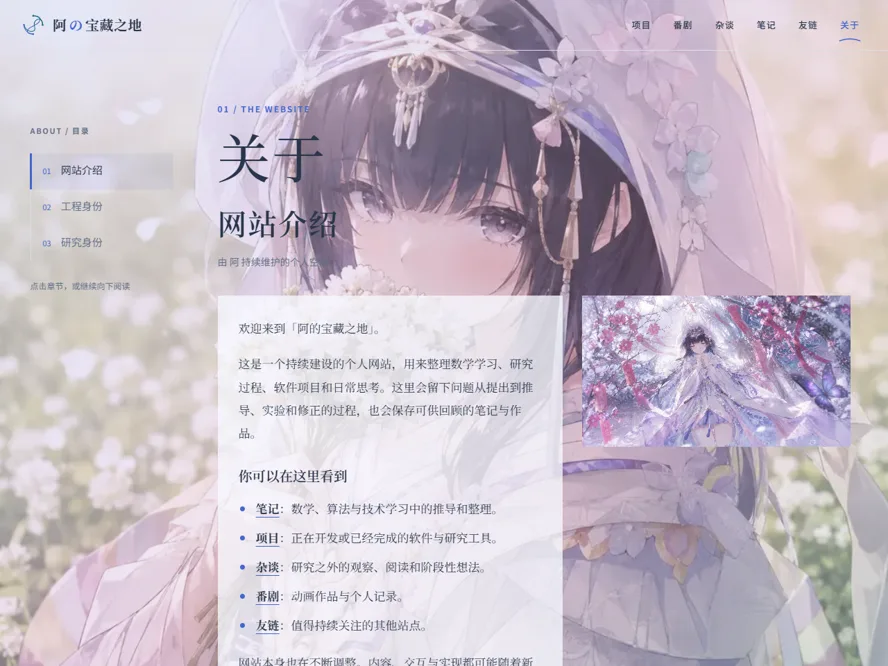
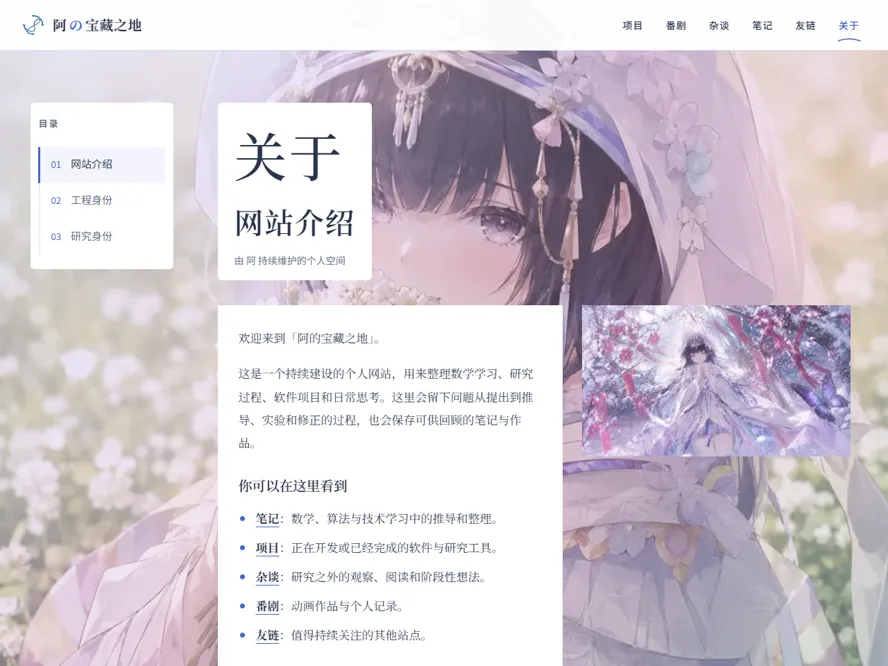
更新桌面导航字号与真实页面预览并按内容刷新图片缓存

diff --git a/components/HomeScene.tsx b/components/HomeScene.tsx
@@ -21,21 +21,37 @@ import { ToastProvider } from "./ToastProvider"
 import HomeSpectralCanvas from "./HomeSpectralCanvas"
 import type { PaperReport } from "../lib/papers"
 import styles from "./HomeScene.module.css"
+import projectsPreview from "../public/page-previews/projects.webp"
+import animePreview from "../public/page-previews/anime.webp"
+import chatterPreview from "../public/page-previews/chatter.webp"
+import blogPreview from "../public/page-previews/blog.webp"
+import friendsPreview from "../public/page-previews/friends.webp"
+import aboutPreview from "../public/page-previews/about.webp"
 
 const navigationIcons = [Folder, Clapperboard, MessageCircle, NotebookPen, Link2, UserRound]
+// Static imports give regenerated screenshots content-based URLs instead of stale image caches.
+const pagePreviews = [
+  projectsPreview,
+  animePreview,
+  chatterPreview,
+  blogPreview,
+  friendsPreview,
+  aboutPreview,
+]
 const pageEntries = navigationLinks.map((link, index) => ({
   ...link,
   id: link.href.slice(1),
   icon: navigationIcons[index],
+  preview: pagePreviews[index],
 }))
 const rails = [
   { side: "left", entries: pageEntries.slice(0, 4) },
   {
     side: "right",
     entries: [
-      { id: "papers", name: "论文", href: null, icon: BookOpen },
+      { id: "papers", name: "论文", href: null, icon: BookOpen, preview: null },
       ...pageEntries.slice(4),
-      { id: "contact", name: "联系", href: null, icon: Mail },
+      { id: "contact", name: "联系", href: null, icon: Mail, preview: null },
     ],
   },
 ]
@@ -121,7 +137,7 @@ export default function HomeScene({
             aria-label={`首页${side === "left" ? "左" : "右"}侧导航`}
             data-home-rail={side}
           >
-            {entries.map(({ id, name, href, icon: Icon }) => {
+            {entries.map(({ id, name, href, icon: Icon, preview }) => {
               const expanded = open === id
               return (
                 <aside
@@ -201,19 +217,14 @@ export default function HomeScene({
                         keyboardSide.current = id
                     }}
                   >
-                    {href ? (
+                    {href && preview ? (
                       <Link
                         href={href === "/blog" ? blogHref : href}
                         prefetch={false}
                         className={styles.previewLink}
                         aria-label={`进入${name}`}
                       >
-                        {expanded && (
-                          <SidebarPreview
-                            src={`/page-previews/${id}.webp`}
-                            alt={`${name}页面预览`}
-                          />
-                        )}
+                        {expanded && <SidebarPreview src={preview} alt={`${name}页面预览`} />}
                       </Link>
                     ) : id === "papers" ? (
                       <PaperMonitor

diff --git a/next.config.ts b/next.config.ts
@@ -33,6 +33,7 @@ const nextConfig: NextConfig = {
     deviceSizes: [640, 828, 1200, 1440, 1920],
     imageSizes: [64, 128, 256, 384],
     localPatterns: [
+      { pathname: "/_next/static/media/**", search: "" },
       { pathname: "/avatar", search: "" },
       { pathname: "/avatar.jpg", search: "" },
       { pathname: "/about-cover.png", search: "" },

diff --git a/components/Navbar.module.css b/components/Navbar.module.css
@@ -79,7 +79,7 @@
   justify-content: center;
   min-width: 44px;
   padding-inline: 9px;
-  font-size: 13px;
+  font-size: 14px;
   font-weight: 500;
   letter-spacing: 0.08em;
   white-space: nowrap;

diff --git a/components/HomeScene.module.css b/components/HomeScene.module.css
@@ -182,3 +182,8 @@
 .scene :global(dialog) {
   color-scheme: dark;
 }
+@media (min-width: 768px) {
+  .tab {
+    font-size: 14px;
+  }
+}

diff --git a/scripts/home-scene-preview.py b/scripts/home-scene-preview.py
@@ -1,8 +1,9 @@
 """Unified homepage acceptance. Evidence goes to --output (ignored by Git by default).
 
 The default navigation mode checks the current sidebars and bottom music dock.
-The snapshots mode updates public/page-previews/ from real pages; it may read
-the production anime page when the local data service is unavailable.
+The snapshots mode updates public/page-previews/ from local pages. It may read
+the public production anime data when local data is unavailable, while keeping
+the current local renderer and styles. Synthetic fixtures are never published.
 
 Requires Python Playwright and Pillow. The music fixture is local test audio;
 it validates the real MusicProvider, not availability of an external music API.
@@ -15,6 +16,7 @@ from pathlib import Path
 import struct
 import time
 import wave
+from urllib.parse import urljoin, urlparse, parse_qs
 from playwright.sync_api import sync_playwright, expect
 
 parser = argparse.ArgumentParser(description=__doc__)
@@ -89,11 +91,31 @@ with sync_playwright() as p:
             except Exception:
                 pass  # A slow external image must not prevent the local page capture.
             if route == 'anime' and page.get_by_role('heading', name='番剧数据暂时不可用').count():
-                response = page.goto('https://nothing-new.cn/anime', wait_until='domcontentloaded', timeout=120000)
-                assert response and response.ok
-                page.wait_for_function("document.documentElement.classList.contains('splash-seen')")
-                page.wait_for_function("document.querySelector('main img, [data-anime-card] img, img[alt*=CLANNAD]') !== null", timeout=30000)
-                assert page.get_by_role('heading', name='番剧数据暂时不可用').count() == 0
+                # Read real public data, never an old production screenshot or a test fixture.
+                latest = context.request.get('https://nothing-new.cn/anime/latest.json')
+                assert latest.ok, 'Public anime pointer unavailable; do not publish a fixture preview'
+                pointer = latest.json()
+                snapshot_response = context.request.get(urljoin('https://nothing-new.cn', pointer['snapshot']))
+                assert snapshot_response.ok, 'Public anime snapshot unavailable'
+                snapshot = snapshot_response.json()
+                assert snapshot.get('version') == 1 and snapshot.get('items'), 'Invalid public anime snapshot'
+                context.route('**/anime/latest.json', lambda r: r.fulfill(json={
+                    **pointer, 'snapshot': '/__preview-real-anime.json'}))
+                context.route('**/__preview-real-anime.json', lambda r: r.fulfill(json=snapshot))
+
+                def public_anime_cover(r):
+                    parsed = urlparse(r.request.url)
+                    source = parse_qs(parsed.query).get('url', [''])[0]
+                    if not source.startswith('/anime/blob/covers/'):
+                        r.continue_()
+                        return
+                    cover = context.request.get('https://nothing-new.cn' + parsed.path + '?' + parsed.query)
+                    r.fulfill(response=cover)
+
+                context.route('**/_next/image?*', public_anime_cover)
+                page.reload(wait_until='domcontentloaded', timeout=120000)
+                page.get_by_role('heading', name='番剧', exact=True).wait_for(timeout=30000)
+                check('anime: public real data with local renderer', {'source': pointer['snapshot'], 'count': len(snapshot['items'])})
             try:
                 page.wait_for_function("""() => [...document.images].filter(img => {
                     const b = img.getBoundingClientRect();
@@ -127,7 +149,7 @@ with sync_playwright() as p:
             assert left.all_text_contents() == ['项目', '番剧', '杂谈', '笔记']
             assert right.all_text_contents() == ['论文', '友链', '关于', '联系']
             assert page.locator('[data-edge-trigger=music]').count() == 0
-            assert page.locator('img[src*="page-previews"]').count() == 0
+            assert page.locator('[data-home-preview]:not(#home-papers-panel):not(#home-contact-panel) img').count() == 0
             assert page.locator('audio').count() == 1
             assert page.locator('[data-home-canvas]').count() == 1
             assert page.evaluate('document.documentElement.scrollWidth <= innerWidth')

diff --git a/docs/project/home-scene.md b/docs/project/home-scene.md
@@ -4,9 +4,11 @@
 
 首页取消顶栏与音乐侧栏，左侧依次为「项目、番剧、杂谈、笔记」，右侧依次为「论文、友链、关于、联系」，各四个入口。八个入口共用原论文侧栏的交互：鼠标停留 350ms 展开，离开按钮与内容联合区域 120ms 收起；点击固定，外部点击或 Escape 关闭，键盘聚焦展开，Escape 归还触发按钮焦点。同时只展开一个入口，透明空白不捕获指针。
 
-六个页面入口与论文封面复用 `PaperMonitor.tsx` 的 `SidebarPreview`，展开时才加载 `public/page-previews/` 内的真实页面静态截图，点击后通过 Next Link 进入对应页面。笔记仍使用服务端解析的实际文章入口。截图只作页面预览，内容更新后按下方命令重新生成，不嵌入后台页面或额外场景；本地番剧服务不可用时，截图脚本从正式站的同一路径取景。论文保留原封面及两层阅读窗口，原生 dialog 不放进 inert/aria-hidden 容器；联系复用现有 `ProfileActions`。
+六个页面入口与论文封面复用 `PaperMonitor.tsx` 的 `SidebarPreview`，展开时才加载 `public/page-previews/` 内的真实页面静态截图，点击后通过 Next Link 进入对应页面。笔记仍使用服务端解析的实际文章入口。截图只作页面预览，内容更新后按下方命令重新生成，不嵌入后台页面或额外场景；本地番剧服务不可用时，读取正式站公开真实快照，仍用当前本地页面渲染，不从旧版线上页面取景，也不使用合成夹具生成公开预览。论文保留原封面及两层阅读窗口，原生 dialog 不放进 inert/aria-hidden 容器；联系复用现有 `ProfileActions`。
 
 音乐播放、暂停、切歌、进度与曲目信息常驻下方，歌词位于控件上方。`CloudPlayer dock` 只改变布局，继续使用根 MusicProvider/audio；桌面首页挂载可见控件后初始化歌单，不自动播放。内页、移动设备分流、原画和谱场运行逻辑保持现有行为。
+
+导航截图通过 Next.js 静态导入生成带内容哈希的图片 URL，更新截图后需重新构建，避免长期图片缓存继续展示旧文案或旧配色。静态导入只把图片元信息放进模块，仍在入口展开时才请求图片；`next.config.ts` 仅增加对应静态媒体路径白名单。
 
 ```powershell
 # 本地 Next 预览运行后（需要 Python Playwright、Pillow 和 Chrome）：

diff --git a/scripts/README.md b/scripts/README.md
@@ -4,7 +4,7 @@
 
 ## 目录说明
 
-- `home-scene-preview.py`：首页总装、边缘交互、谱场与移动分流验证；当前双侧导航与底部音乐使用 `--mode navigation` 验收，`--mode preview` 截取真实首页。`--mode snapshots` 会更新 `public/page-previews/` 六张页面截图，本地番剧服务不可用时从正式站取景；其他证据默认写入忽略目录 `.sync/tmp-home-scene-evidence/`。详见[首页总装](../docs/project/home-scene.md)。
+- `home-scene-preview.py`：首页总装、边缘交互、谱场与移动分流验证；当前双侧导航与底部音乐使用 `--mode navigation` 验收，`--mode preview` 截取真实首页。`--mode snapshots` 会更新 `public/page-previews/` 六张本地新版页面截图；本地番剧服务不可用时只借用正式站公开真实快照和封面，不使用旧版线上页面或合成夹具。其他证据默认写入忽略目录 `.sync/tmp-home-scene-evidence/`。详见[首页总装](../docs/project/home-scene.md)。
 - `celestial-preview.py`：已退役的 #49 入口，旧选项明确报停，不再生成或清理 Next 路由；历史来源与当前替代检查见[日月记录](../docs/project/home-mode-panels.md)。
 - `profile-preview.py`：#47 首页个人信息退场与联系操作测试，详见[个人区调整](../docs/project/profile-renewal.md)。
 - `home-music-preview.py`：#48 音乐控制与舞台歌词测试，详见[音乐](../docs/project/home-music-renewal.md)。
